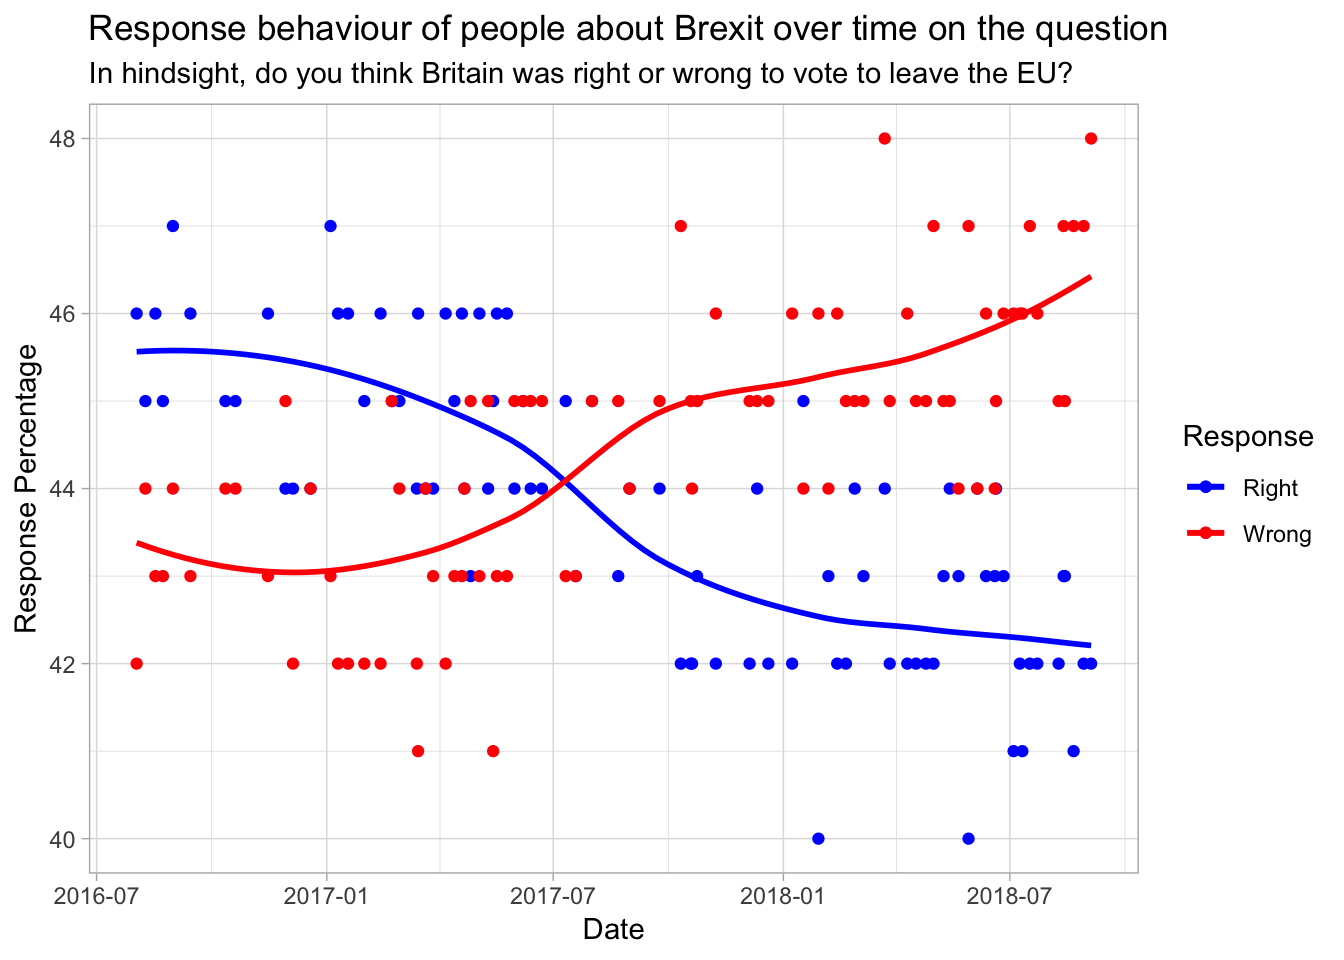
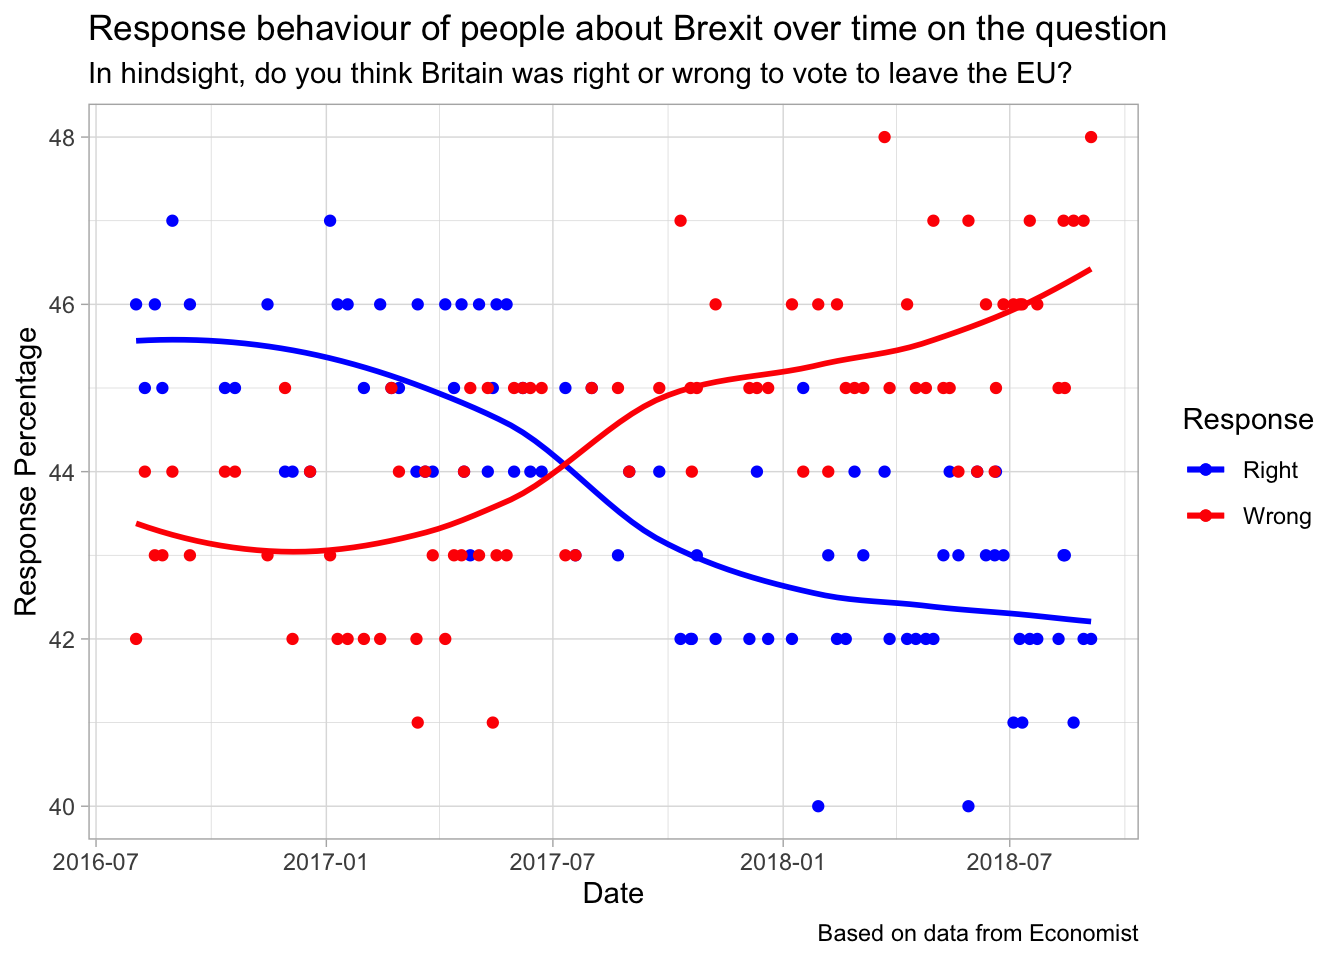
Finishing new TidyTuesday Post

diff --git a/content/post/2019-04-16-economist-s-visualization-mistakes.html b/content/post/2019-04-16-economist-s-visualization-mistakes.html
@@ -1,17 +1,18 @@
 ---
-title: Economist's Visualization Mistakes
+title: 'Economist''s Visualization Mistakes: TidyTuesday Apr 16 2019'
 author: Aditya Mangal
 date: '2019-04-16'
-slug: economist-s-visualization-mistakes
 categories:
   - TidyTuesday
 tags:
   - DataAnalysis
-  - Visualizations
   - TidyTuesday
-summary: "Learning from the Economist's errors in data visualization as described here - [Mistakes, we’ve drawn a few](https://medium.economist.com/mistakes-weve-drawn-a-few-8cdd8a42d368)"
-readingtime: "10"
-draft: true
+  - Visualizations
+slug: economist-s-visualization-mistakes
+summary: Redrawing Economist's erroneous visualizations as described here
+  - [Mistakes, we’ve drawn a few](https://medium.economist.com/mistakes-weve-drawn-a-few-8cdd8a42d368)
+readingtime: '10'
+draft: no
 ---
 
 
@@ -19,21 +20,29 @@ draft: true
 <ul>
 <li><a href="#introduction">Introduction</a></li>
 <li><a href="#analysis">Analysis</a><ul>
+<li><a href="#load-libraries">Load libraries</a></li>
 <li><a href="#analyzing-britains-political-left">Analyzing Britain’s Political Left</a></li>
 <li><a href="#analyzing-decline-of-dog-weights">Analyzing decline of dog weights</a></li>
 <li><a href="#analyzing-brexit-data">Analyzing Brexit data</a></li>
 <li><a href="#analyzing-us-trade-deficit">Analyzing US trade deficit</a></li>
+<li><a href="#analyzing-pension-benefits">Analyzing pension benefits</a></li>
+<li><a href="#analyzing-eu-balance">Analyzing EU balance</a></li>
+<li><a href="#analyzing-papers-published">Analyzing papers published</a></li>
 </ul></li>
 </ul>
 </div>
 
-<div id="introduction" class="section level2">
-<h2>Introduction</h2>
+<div id="introduction" class="section level1">
+<h1>Introduction</h1>
 <p>From the article on <a href="https://medium.economist.com/mistakes-weve-drawn-a-few-8cdd8a42d368">Mistakes, we’ve drawn a few</a> -</p>
 <p>“At The Economist, we take data visualisation seriously. Every week we publish around 40 charts across print, the website and our apps. With every single one, we try our best to visualise the numbers accurately and in a way that best supports the story. But sometimes we get it wrong. We can do better in future if we learn from our mistakes — and other people may be able to learn from them, too.”</p>
+<p>Here I will try and draw the improved plots as suggested by the article on economist or make a version I think is best.
+All this done towards the weekly social data project <a href="https://github.com/rfordatascience/tidytuesday/tree/master/data/2019/2019-04-16">Tidy Tuesday</a>.</p>
 </div>
-<div id="analysis" class="section level2">
-<h2>Analysis</h2>
+<div id="analysis" class="section level1">
+<h1>Analysis</h1>
+<div id="load-libraries" class="section level2">
+<h2>Load libraries</h2>
 <pre class="r"><code>rm(list = ls())
 library(tidyverse)
 library(lubridate)
@@ -41,14 +50,15 @@ library(ggplot2)
 library(gridExtra)
 library(scales)
 theme_set(theme_light())</code></pre>
-<div id="analyzing-britains-political-left" class="section level3">
-<h3>Analyzing Britain’s Political Left</h3>
+</div>
+<div id="analyzing-britains-political-left" class="section level2">
+<h2>Analyzing Britain’s Political Left</h2>
 <pre class="r"><code>corbyn &lt;- readr::read_csv(&quot;https://raw.githubusercontent.com/rfordatascience/tidytuesday/master/data/2019/2019-04-16/corbyn.csv&quot;)
 
 corbyn</code></pre>
 <pre><code>## # A tibble: 6 x 2
 ##   political_group avg_facebook_likes
-##   &lt;chr&gt;                        &lt;int&gt;
+##   &lt;chr&gt;                        &lt;dbl&gt;
 ## 1 Jeremy Corbyn                 5210
 ## 2 Labour Party                   845
 ## 3 Momentum                       229
@@ -64,17 +74,17 @@ corbyn</code></pre>
   labs(y = &quot;% of likes over the political groups&quot;,
        x = &quot;Political Group&quot;,
        title = &quot;Percentage of Average Facebook likes for different political groups&quot;,
-       subtitle = &quot;Based on data from Economist about political left in Britain&quot;)</code></pre>
+       caption = &quot;Based on data from Economist about political left in Britain&quot;)</code></pre>
 <p><img src="/post/2019-04-16-economist-s-visualization-mistakes_files/figure-html/unnamed-chunk-3-1.png" width="672" /></p>
 </div>
-<div id="analyzing-decline-of-dog-weights" class="section level3">
-<h3>Analyzing decline of dog weights</h3>
+<div id="analyzing-decline-of-dog-weights" class="section level2">
+<h2>Analyzing decline of dog weights</h2>
 <pre class="r"><code>dogs &lt;- readr::read_csv(&quot;https://raw.githubusercontent.com/rfordatascience/tidytuesday/master/data/2019/2019-04-16/dogs.csv&quot;)
 
 dogs</code></pre>
 <pre><code>## # A tibble: 10 x 3
 ##     year avg_weight avg_neck
-##    &lt;int&gt;      &lt;dbl&gt;    &lt;dbl&gt;
+##    &lt;dbl&gt;      &lt;dbl&gt;    &lt;dbl&gt;
 ##  1  2006       20.5     44.3
 ##  2  2007       20.0     43.8
 ##  3  2008       19.4     43.4
@@ -94,17 +104,17 @@ dogs</code></pre>
   labs(x = &quot;Year&quot;,
        y = &quot;Average Weight to Average Neck Ratio&quot;,
        title = &quot;Average Weight to Neck Ratio over Years&quot;,
-       subtitle = &quot;Based on data from Economist&quot;)</code></pre>
+       caption = &quot;Based on data from Economist&quot;)</code></pre>
 <p><img src="/post/2019-04-16-economist-s-visualization-mistakes_files/figure-html/unnamed-chunk-5-1.png" width="672" /></p>
 </div>
-<div id="analyzing-brexit-data" class="section level3">
-<h3>Analyzing Brexit data</h3>
+<div id="analyzing-brexit-data" class="section level2">
+<h2>Analyzing Brexit data</h2>
 <pre class="r"><code>brexit &lt;- readr::read_csv(&quot;https://raw.githubusercontent.com/rfordatascience/tidytuesday/master/data/2019/2019-04-16/brexit.csv&quot;)
 
 brexit</code></pre>
 <pre><code>## # A tibble: 85 x 3
 ##    date     percent_responding_right percent_responding_wrong
-##    &lt;chr&gt;                       &lt;int&gt;                    &lt;int&gt;
+##    &lt;chr&gt;                       &lt;dbl&gt;                    &lt;dbl&gt;
 ##  1 02/08/16                       46                       42
 ##  2 09/08/16                       45                       44
 ##  3 17/08/16                       46                       43
@@ -115,7 +125,7 @@ brexit</code></pre>
 ##  8 20/10/16                       45                       44
 ##  9 15/11/16                       46                       43
 ## 10 29/11/16                       44                       45
-## # ... with 75 more rows</code></pre>
+## # … with 75 more rows</code></pre>
 <pre class="r"><code>brexit %&gt;% 
   mutate(date = dmy(date)) %&gt;% 
   ggplot(aes(x = date)) + 
@@ -128,17 +138,18 @@ brexit</code></pre>
        y = &quot;Response Percentage&quot;,
        title = &quot;Response behaviour of people about Brexit over time on the question&quot;,
        subtitle = &quot;In hindsight, do you think Britain was right or wrong to vote to leave the EU?&quot;,
+       caption = &quot;Based on data from Economist&quot;,
        color = &quot;Response&quot;)</code></pre>
 <p><img src="/post/2019-04-16-economist-s-visualization-mistakes_files/figure-html/unnamed-chunk-7-1.png" width="672" /></p>
 </div>
-<div id="analyzing-us-trade-deficit" class="section level3">
-<h3>Analyzing US trade deficit</h3>
+<div id="analyzing-us-trade-deficit" class="section level2">
+<h2>Analyzing US trade deficit</h2>
 <pre class="r"><code>trade &lt;- readr::read_csv(&quot;https://raw.githubusercontent.com/rfordatascience/tidytuesday/master/data/2019/2019-04-16/trade.csv&quot;)
 
 trade</code></pre>
 <pre><code>## # A tibble: 22 x 3
 ##     year trade_deficit manufacture_employment
-##    &lt;int&gt;         &lt;dbl&gt;                  &lt;dbl&gt;
+##    &lt;dbl&gt;         &lt;dbl&gt;                  &lt;dbl&gt;
 ##  1  1995      -3.38e10              17244583.
 ##  2  1996      -3.95e10              17236750 
 ##  3  1997      -4.97e10              17417833.
@@ -149,19 +160,20 @@ trade</code></pre>
 ##  8  2002      -1.03e11              15256833.
 ##  9  2003      -1.24e11              14508500 
 ## 10  2004      -1.62e11              14314750 
-## # ... with 12 more rows</code></pre>
+## # … with 12 more rows</code></pre>
 <pre class="r"><code>trade %&gt;% 
   mutate(year = as.factor(year),
          trade_deficit = trade_deficit/1000000000,
-         manufacture_employment = manufacture_employment/1000000) -&gt; trade</code></pre>
-<pre class="r"><code>trade %&gt;% 
+         manufacture_employment = manufacture_employment/1000000) -&gt; trade
+
+trade %&gt;% 
   ggplot(aes(x = year, y = trade_deficit, fill = &quot;trade_deficit&quot;)) + 
   geom_col(show.legend = FALSE) + 
   theme(axis.text.x = element_text(angle = 90, hjust = 1)) + 
   labs(x = &quot;Year&quot;,
        y = &quot;Trade Deficit in billions&quot;,
        title = &quot;US Trade Deficit over years&quot;,
-       subtitle = &quot;Based on data from Economist&quot;) -&gt; p1
+       caption = &quot;Based on data from Economist&quot;) -&gt; p1
 
 trade %&gt;% 
   ggplot(aes(x = year, y = manufacture_employment, color = &quot;manufacture_employment&quot;)) + 
@@ -171,9 +183,109 @@ trade %&gt;%
   labs(x = &quot;Year&quot;,
        y = &quot;Manufacturing Employment in millions&quot;,
        title = &quot;Manufacturing Employment over years&quot;,
-       subtitle = &quot;Based on data from Economist&quot;) -&gt; p2
+       caption = &quot;Based on data from Economist&quot;) -&gt; p2
 
 grid.arrange(p1, p2, nrow = 1)</code></pre>
-<p><img src="/post/2019-04-16-economist-s-visualization-mistakes_files/figure-html/unnamed-chunk-10-1.png" width="672" /></p>
+<p><img src="/post/2019-04-16-economist-s-visualization-mistakes_files/figure-html/unnamed-chunk-9-1.png" width="672" /></p>
+</div>
+<div id="analyzing-pension-benefits" class="section level2">
+<h2>Analyzing pension benefits</h2>
+<pre class="r"><code>pensions &lt;- readr::read_csv(&quot;https://raw.githubusercontent.com/rfordatascience/tidytuesday/master/data/2019/2019-04-16/pensions.csv&quot;)
+
+pensions</code></pre>
+<pre><code>## # A tibble: 35 x 3
+##    country        pop_65_percent gov_spend_percent_gdp
+##    &lt;chr&gt;                   &lt;dbl&gt;                 &lt;dbl&gt;
+##  1 Australia               15.0                   5.2 
+##  2 Austria                 18.8                  13.9 
+##  3 Belgium                 18.2                  10.4 
+##  4 Brazil                   7.84                 12   
+##  5 Canada                  16.1                   4.31
+##  6 Chile                   11                     3.25
+##  7 Czech Republic          18.1                   9.09
+##  8 Denmark                 19.0                   8.45
+##  9 Estonia                 18.8                   6.99
+## 10 Finland                 20.5                  11.4 
+## # … with 25 more rows</code></pre>
+<pre class="r"><code>pensions %&gt;% 
+  mutate(spend_per_head = gov_spend_percent_gdp/pop_65_percent) %&gt;% 
+  ggplot(aes(x = pop_65_percent, y = gov_spend_percent_gdp, color = country, size = spend_per_head)) + 
+  geom_point(show.legend = FALSE) + 
+  geom_text(aes(label = country), hjust = -0.15, vjust = 0, show.legend = FALSE) + 
+  labs(x = &quot;Percent of population aged 65 or older&quot;,
+       y = &quot;Percent of government spending on pension benefits as percent of GDP&quot;,
+       title = &quot;Government Spend vs. Population over 65&quot;,
+       subtitle = &quot;Size of point represents the spend per head&quot;,
+       caption = &quot;Based on data from Economist&quot;)</code></pre>
+<p><img src="/post/2019-04-16-economist-s-visualization-mistakes_files/figure-html/unnamed-chunk-11-1.png" width="672" /></p>
+</div>
+<div id="analyzing-eu-balance" class="section level2">
+<h2>Analyzing EU balance</h2>
+<pre class="r"><code>eu_balance &lt;- readr::read_csv(&quot;https://raw.githubusercontent.com/rfordatascience/tidytuesday/master/data/2019/2019-04-16/eu_balance.csv&quot;)
+
+eu_balance</code></pre>
+<pre><code>## # A tibble: 266 x 4
+##    country account_type  year    value
+##    &lt;chr&gt;   &lt;chr&gt;        &lt;dbl&gt;    &lt;dbl&gt;
+##  1 Belgium current       2009   -3755 
+##  2 Germany current       2009  141234 
+##  3 Estonia current       2009     360 
+##  4 Ireland current       2009   -7912.
+##  5 Greece  current       2009  -29323 
+##  6 Spain   current       2009  -46191 
+##  7 France  current       2009  -10652 
+##  8 Italy   current       2009  -29717 
+##  9 Cyprus  current       2009   -1431 
+## 10 Latvia  current       2009    1463 
+## # … with 256 more rows</code></pre>
+<pre class="r"><code>eu_balance %&gt;% 
+  mutate(year = as.factor(year),
+         account_type = as.factor(account_type),
+         country = as.factor(country)) %&gt;% 
+  group_by(year, account_type) %&gt;% 
+  mutate(perc = value/sum(value)) %&gt;% 
+  top_n(5, perc) %&gt;% 
+  ungroup() %&gt;% 
+  ggplot(aes(x = year, y = value, fill = country)) +
+  geom_col() + 
+  facet_wrap(~account_type) +
+  labs(x = &quot;Year&quot;,
+       y = &quot;Value in billions of euros&quot;,
+       title = &quot;Top 5 countries per year and account type&quot;,
+       subtitle = &quot;Based on percentage of balances&quot;,
+       caption = &quot;Based on data from Economist&quot;)</code></pre>
+<p><img src="/post/2019-04-16-economist-s-visualization-mistakes_files/figure-html/unnamed-chunk-13-1.png" width="672" /></p>
+</div>
+<div id="analyzing-papers-published" class="section level2">
+<h2>Analyzing papers published</h2>
+<pre class="r"><code>women_research &lt;- readr::read_csv(&quot;https://raw.githubusercontent.com/rfordatascience/tidytuesday/master/data/2019/2019-04-16/women_research.csv&quot;)
+
+women_research</code></pre>
+<pre><code>## # A tibble: 60 x 3
+##    country        field           percent_women
+##    &lt;chr&gt;          &lt;chr&gt;                   &lt;dbl&gt;
+##  1 Japan          Health sciences          0.24
+##  2 Chile          Health sciences          0.43
+##  3 United Kingdom Health sciences          0.45
+##  4 United States  Health sciences          0.46
+##  5 Mexico         Health sciences          0.46
+##  6 Denmark        Health sciences          0.47
+##  7 EU28           Health sciences          0.48
+##  8 France         Health sciences          0.48
+##  9 Canada         Health sciences          0.49
+## 10 Australia      Health sciences          0.5 
+## # … with 50 more rows</code></pre>
+<pre class="r"><code>women_research %&gt;% 
+  ggplot(aes(x = field, y = percent_women, color = country, size = percent_women)) + 
+  geom_point() + 
+  scale_size(guide = &quot;none&quot;) +
+  theme(axis.text.x = element_text(angle = 45, hjust = 1)) + 
+  labs(x = &quot;Field of study&quot;,
+       y = &quot;Percentage of Women&quot;,
+       title = &quot;Women among researchers with papers published 2011-15 as % of total by field of study for 12 countries&quot;,
+       subtitle = &quot;Size of point also represents percentage of women&quot;,
+       color = &quot;Country&quot;,
+       caption = &quot;Based on data from Economist&quot;)</code></pre>
+<p><img src="/post/2019-04-16-economist-s-visualization-mistakes_files/figure-html/unnamed-chunk-15-1.png" width="960" /></p>
 </div>
 </div>
